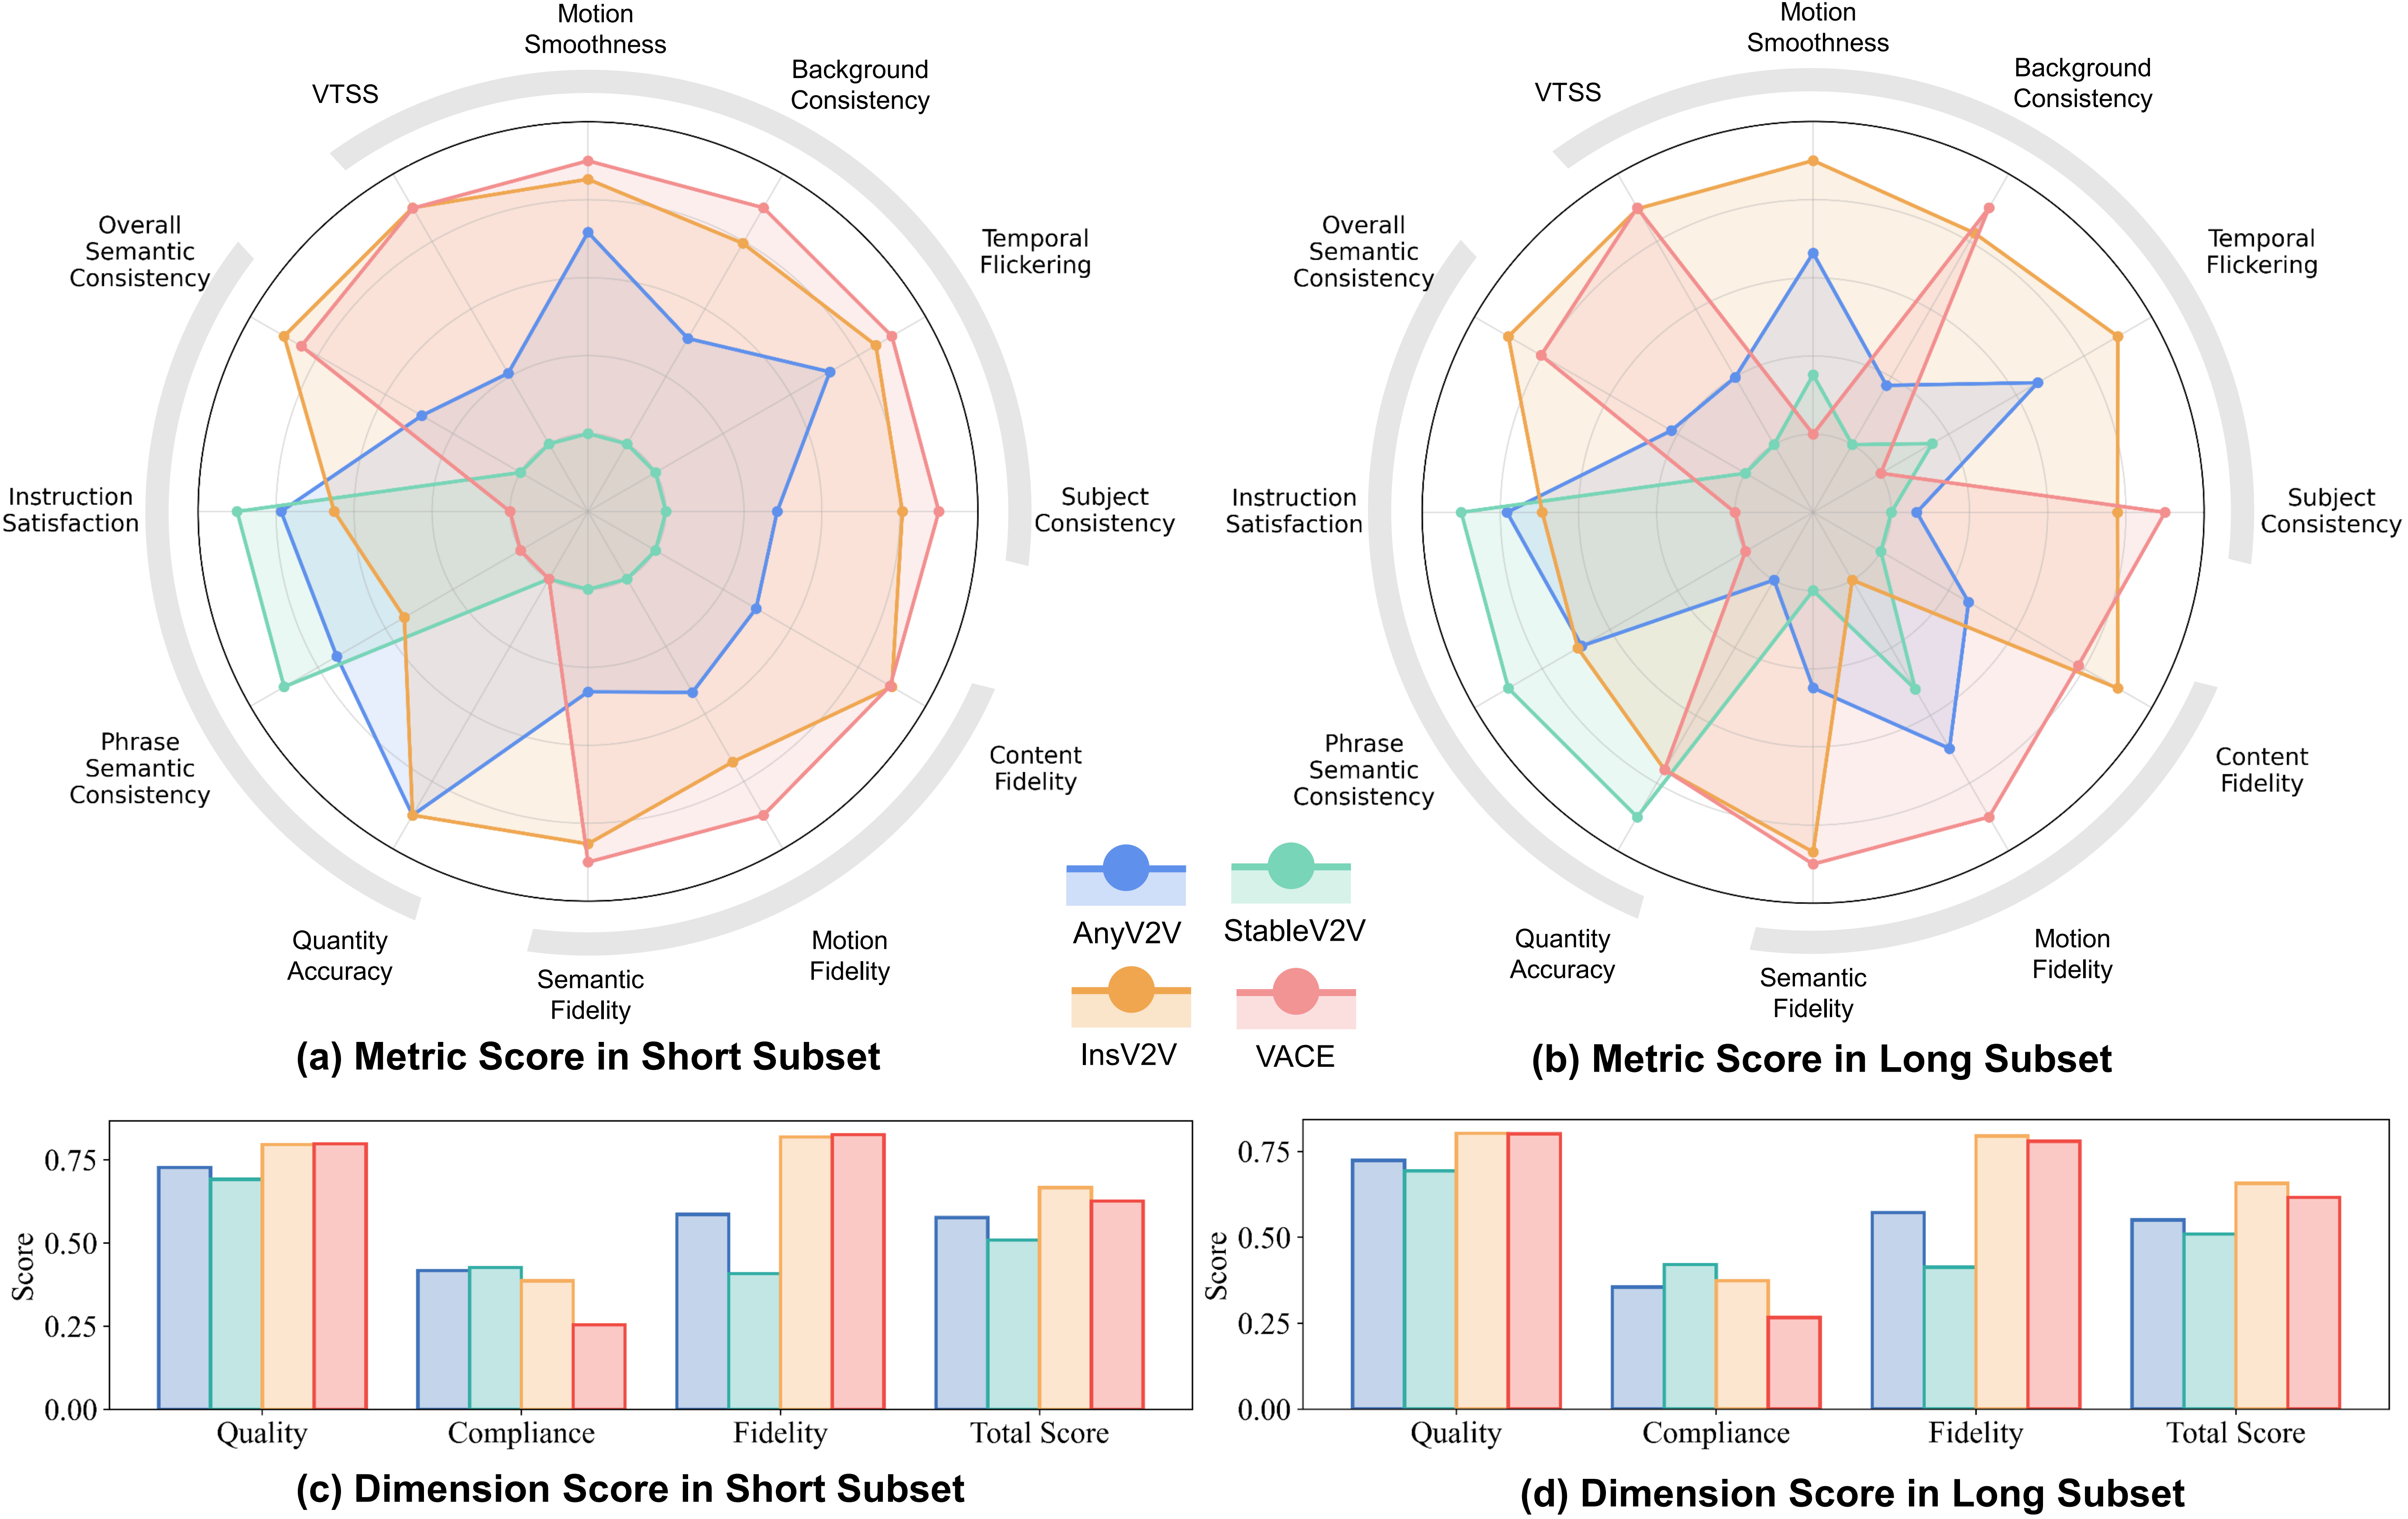
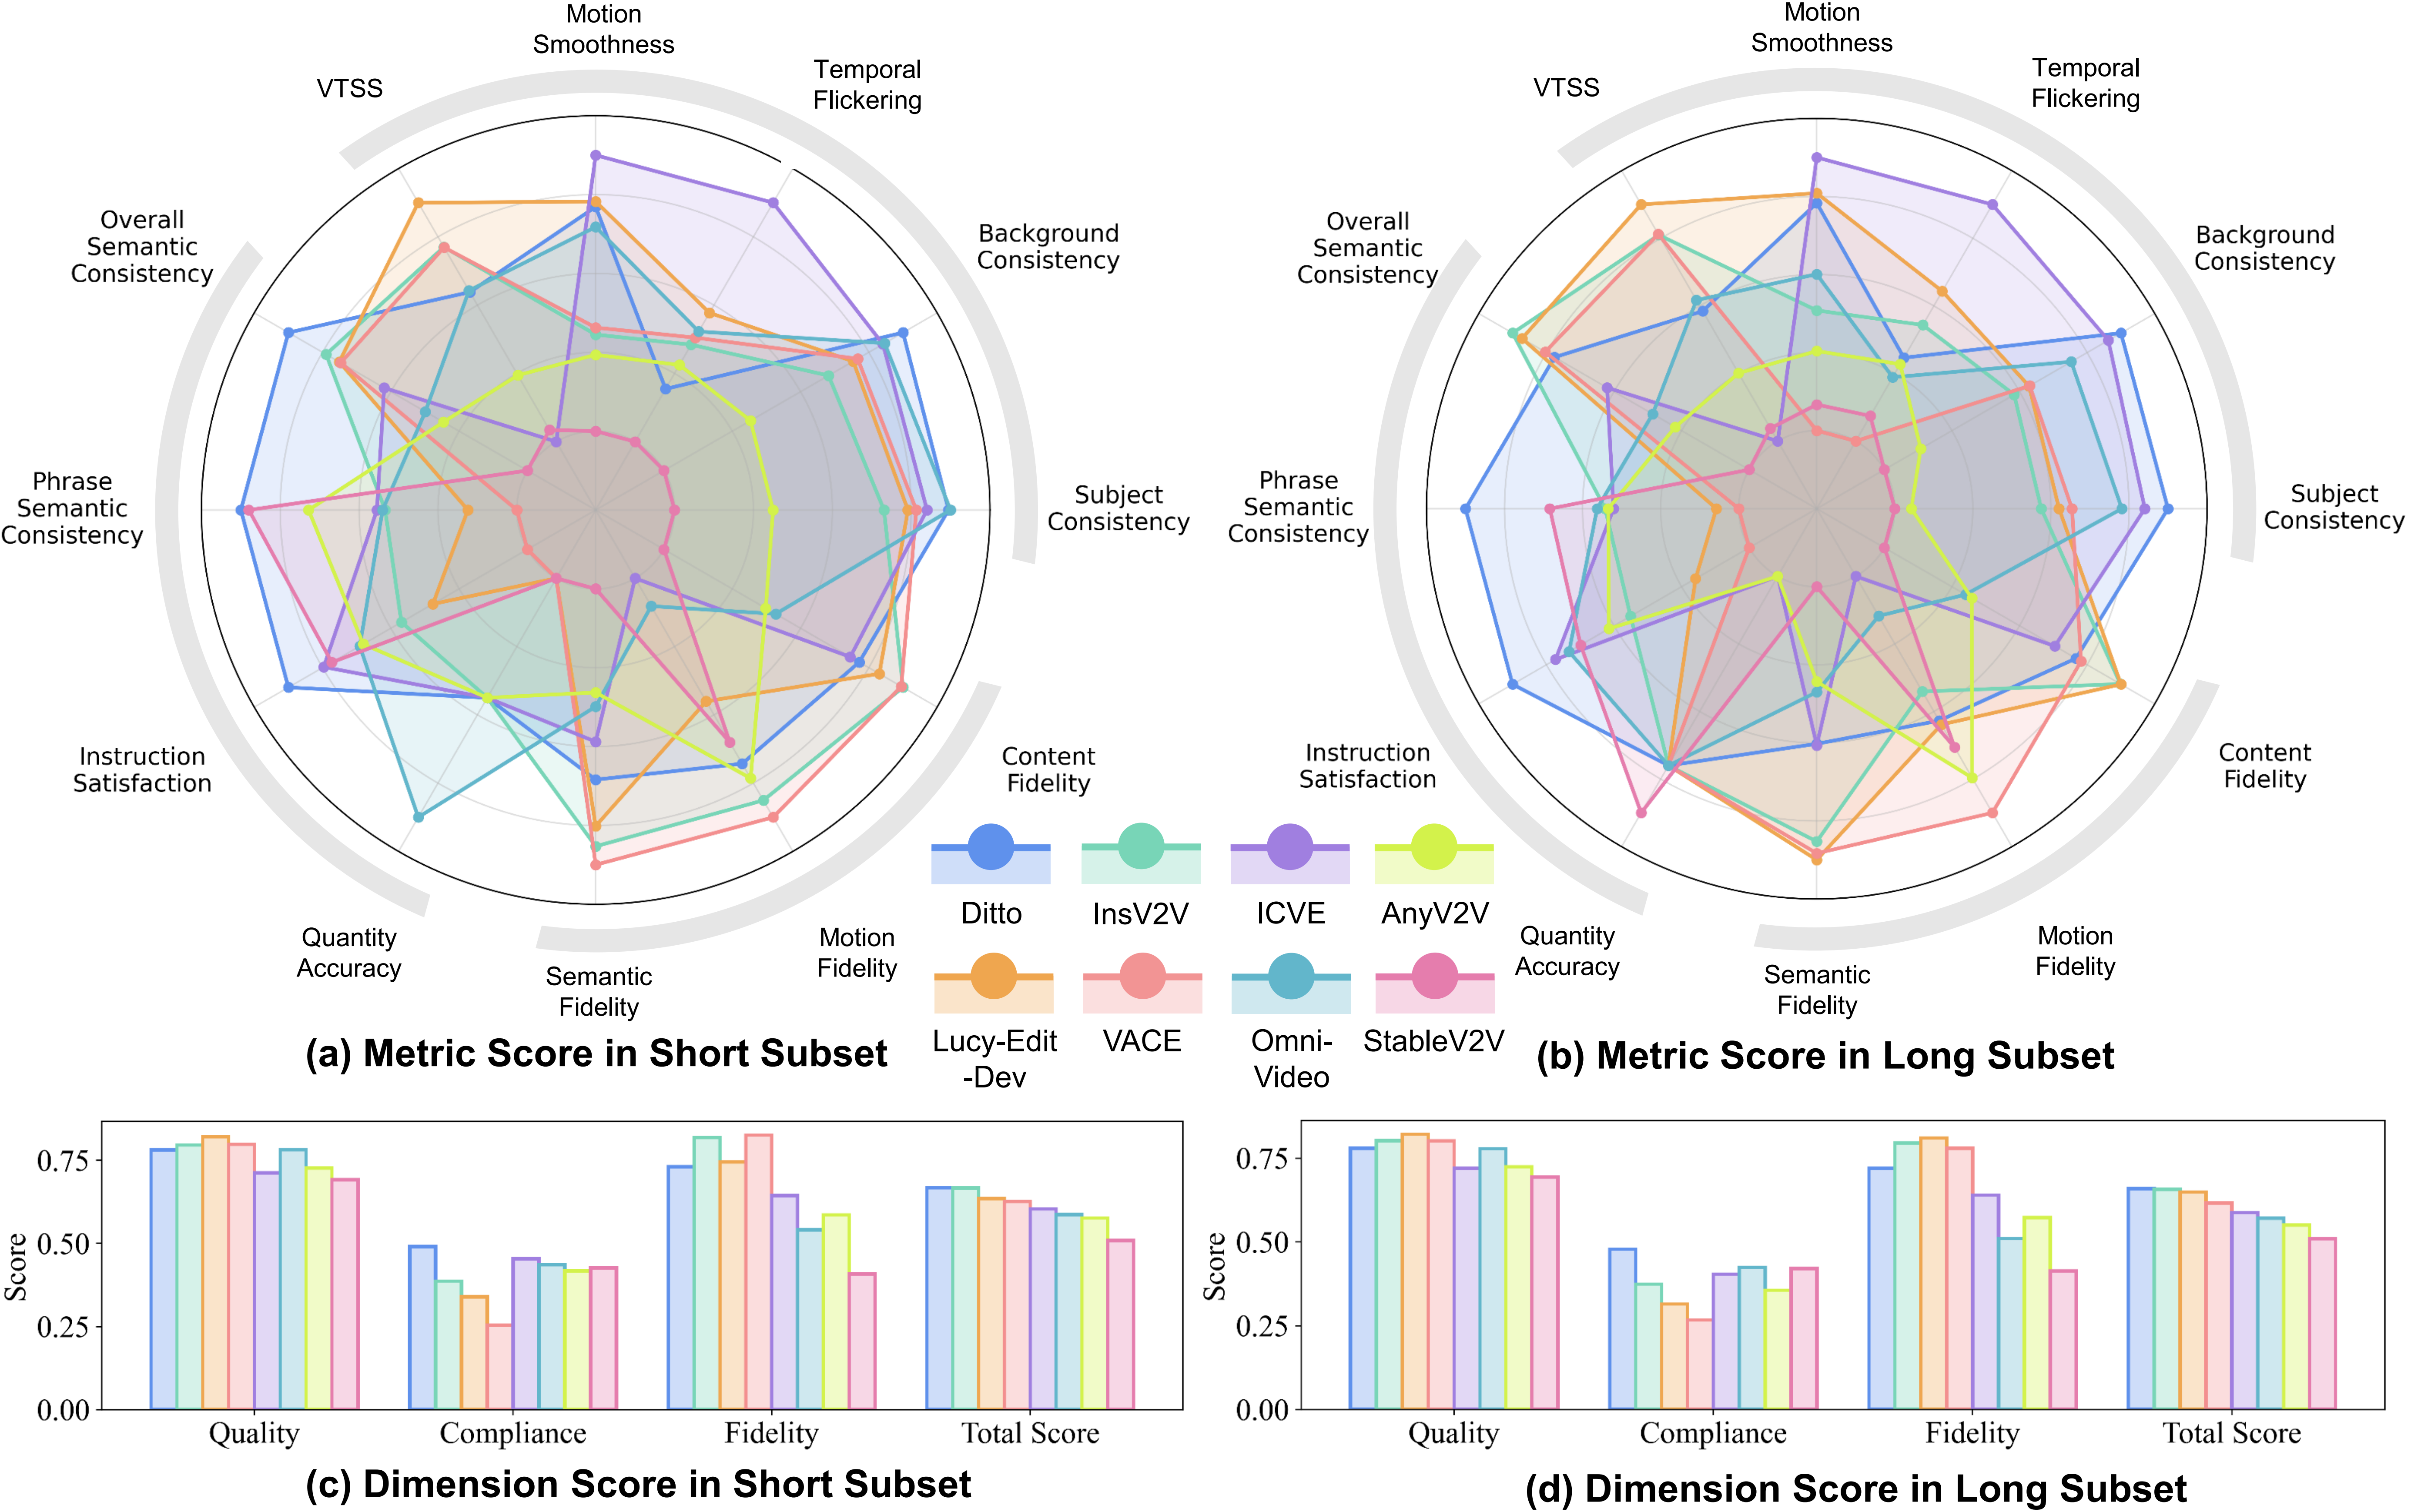
Update

diff --git a/projects/IVEBench/index.html b/projects/IVEBench/index.html
@@ -629,6 +629,11 @@
   <span style="color: #E63946;">I</span><span style="color: #F77F00;">V</span><span style="color: #FCBF49;">E</span><span style="color: #06A77D;">B</span><span style="color: #4ECDC4;">e</span><span style="color: #4285F4;">n</span><span style="color: #9B59B6;">c</span><span style="color: #ee2885;">h</span>
 </h1>
           <h1 class="title is-3" style="font-weight: normal;">Modern Benchmark Suite for Instruction-Guided Video Editing Assessment</h1>
+          <div class="is-size-5">
+            <span style="color: #228B22; font-weight: bold;">ICLR</span> 
+            <span style="color: #4d4d4d; font-weight: bold;">2026</span>
+          </div>
+          
           <div class="is-size-5 publication-authors">
             <span class="author-block">
               <a href="https://scholar.google.com/citations?user=-WKfgd0AAAAJ">Yinan Chen</a><sup>1</sup>,
@@ -652,7 +657,7 @@
               <a href="https://scholar.google.com/citations?user=fqte5H4AAAAJ">Chengjie Wang</a><sup>2,3</sup>,
             </span>
             <span class="author-block">
-              <a href="https://person.zju.edu.cn/yongliu">Yong Liu</a><sup>1</sup>,
+              <a href="https://person.zju.edu.cn/yongliu">Yong Liu</a><sup>1†</sup>,
             </span>
             <span class="author-block">
               <a href="https://huuxiaobin.github.io/">Xiaobin Hu</a><sup>2</sup>,
@@ -1913,11 +1918,11 @@
 <section class="section" id="BibTeX">
   <div class="container is-max-desktop content">
     <h2 class="title">BibTeX</h2>
-    <pre><code>@article{chen2025ivebench,
+    <pre><code>@inproceedings{chen2026ivebench,
   title={IVEBench: Modern Benchmark Suite for Instruction-Guided Video Editing Assessment},
   author={Chen, Yinan and Zhang, Jiangning and Hu, Teng and Zeng, Yuxiang and Xue, Zhucun and He, Qingdong and Wang, Chengjie and Liu, Yong and Hu, Xiaobin and Yan, Shuicheng},
-  journal={arXiv preprint arXiv:2510.11647},
-  year={2025}
+  booktitle={The Fourteenth International Conference on Learning Representations},
+  year={2026}
 }</code></pre>
   </div>
 </section>